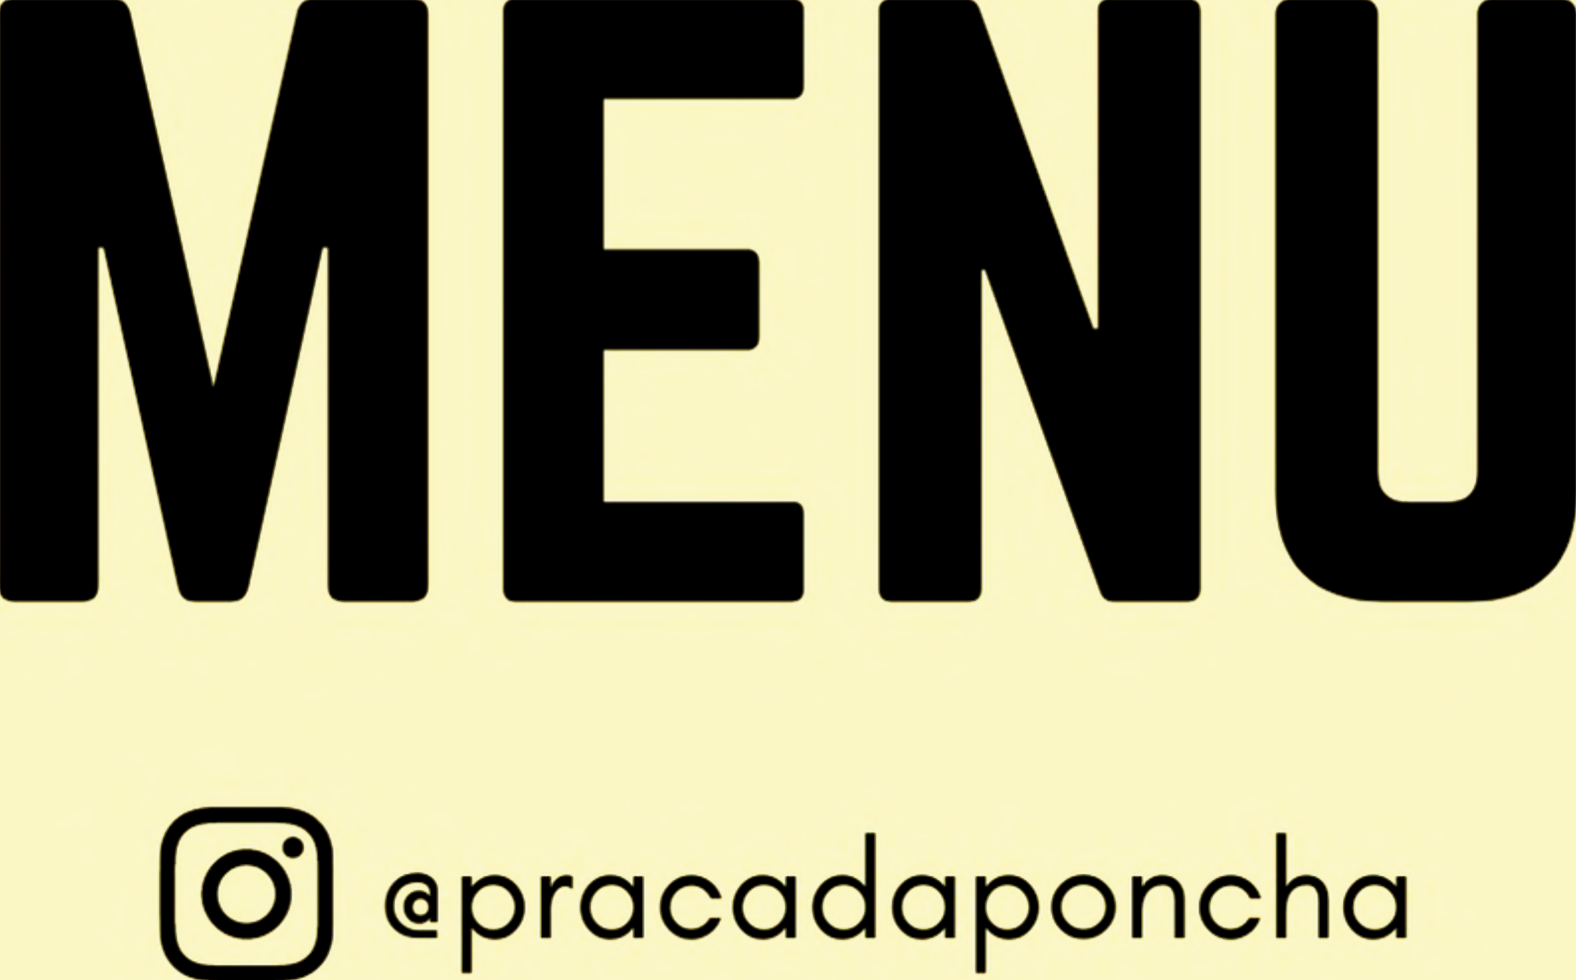
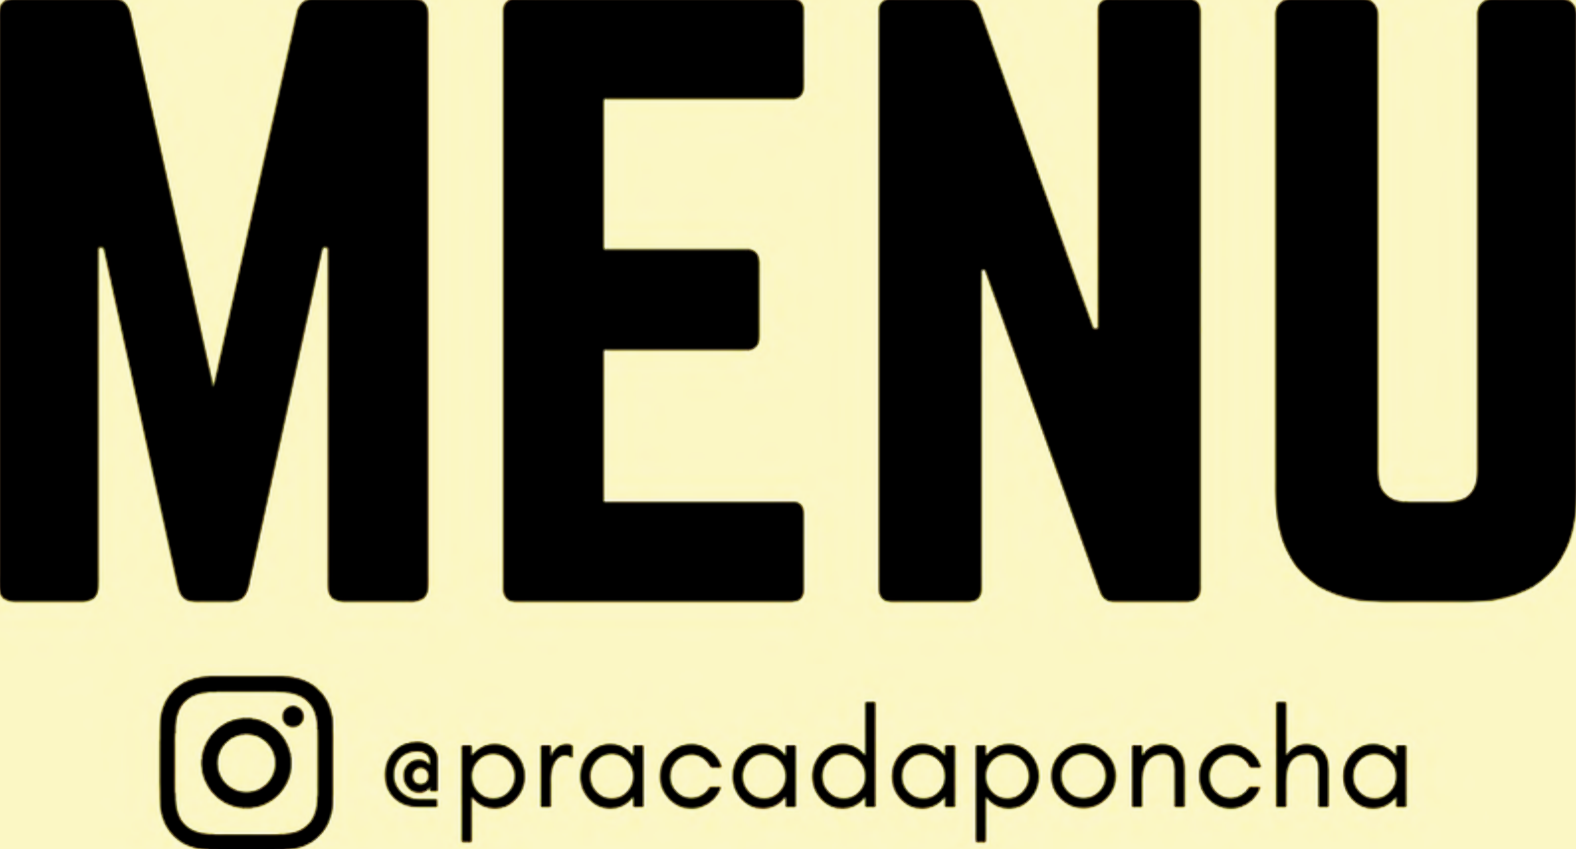
styling for chapter done

diff --git a/src/app/partial/base/menuPartial.html b/src/app/partial/base/menuPartial.html
@@ -1,46 +1,46 @@
-<div>
-    <p>FINGER FOOD</p>
-    <ng-include src="'src/app/partial/chaptersContent/fingerFoodPartial.html'"></ng-include>
-    <p>PREGO</p>
-    <ng-include src="'src/app/partial/chaptersContent/pregoPartial.html'"></ng-include>
-    <p>HAMBURGER</p>
-    <ng-include src="'src/app/partial/chaptersContent/hamburgerPartial.html'"></ng-include>
-    <p>SOBREMESAS</p>
-    <ng-include src="'src/app/partial/chaptersContent/sobremesasPartial.html'"></ng-include>
-    <p>SHISHA</p>
-    <ng-include src="'src/app/partial/chaptersContent/shishaPartial.html'"></ng-include>
-    <p>GIN</p>
-    <ng-include src="'src/app/partial/chaptersContent/ginPartial.html'"></ng-include>
-    <p>WHISKY</p>
-    <ng-include src="'src/app/partial/chaptersContent/whiskyPartial.html'"></ng-include>
-    <p>VODKA</p>
-    <ng-include src="'src/app/partial/chaptersContent/vodkaPartial.html'"></ng-include>
-    <p>RUM</p>
-    <ng-include src="'src/app/partial/chaptersContent/rumPartial.html'"></ng-include>
-    <p>SANGRIA</p>
-    <ng-include src="'src/app/partial/chaptersContent/sangriaPartial.html'"></ng-include>
-    <p>PONCHA</p>
-    <ng-include src="'src/app/partial/chaptersContent/ponchaPartial.html'"></ng-include>
-    <p>CERVEJA</p>
-    <ng-include src="'src/app/partial/chaptersContent/cervejaPartial.html'"></ng-include>
-    <p>VINHO</p>
-    <ng-include src="'src/app/partial/chaptersContent/vinhoPartial.html'"></ng-include>
-    <p>ESPUMANTE</p>
-    <ng-include src="'src/app/partial/chaptersContent/espumantePartial.html'"></ng-include>
-    <p>CHAMPAGNE</p>
-    <ng-include src="'src/app/partial/chaptersContent/champagnePartial.html'"></ng-include>
-    <p>APERITIVOS</p>
-    <ng-include src="'src/app/partial/chaptersContent/aperitivosPartial.html'"></ng-include>
-    <p>LICORES</p>
-    <ng-include src="'src/app/partial/chaptersContent/licoresPartial.html'"></ng-include>
-    <p>COCKTAILS</p>
-    <ng-include src="'src/app/partial/chaptersContent/cocktailsPartial.html'"></ng-include>
-    <p>COCKTAILS S/ ALCOOL</p>
-    <ng-include src="'src/app/partial/chaptersContent/cocktailsSAlcoolPartial.html'"></ng-include>
-    <p>SHOT</p>
-    <ng-include src="'src/app/partial/chaptersContent/shotPartial.html'"></ng-include>
-    <p>CAFETARIA</p>
-    <ng-include src="'src/app/partial/chaptersContent/cafetariaPartial.html'"></ng-include>
-    <p>BEBIDAS S/ ALCOOL</p>
-    <ng-include src="'src/app/partial/chaptersContent/bebidasSAlcoolPartial.html'"></ng-include>
+<div style="margin-bottom: 100px;">
+    <p class="chapterTitleClass">FINGER FOOD</p>
+    <!-- <ng-include src="'src/app/partial/chaptersContent/fingerFoodPartial.html'"></ng-include> -->
+    <p class="chapterTitleClass">PREGO</p>
+    <!-- <ng-include src="'src/app/partial/chaptersContent/pregoPartial.html'"></ng-include> -->
+    <p class="chapterTitleClass">HAMBURGER</p>
+    <!-- <ng-include src="'src/app/partial/chaptersContent/hamburgerPartial.html'"></ng-include> -->
+    <p class="chapterTitleClass">SOBREMESAS</p>
+    <!-- <ng-include src="'src/app/partial/chaptersContent/sobremesasPartial.html'"></ng-include> -->
+    <p class="chapterTitleClass">SHISHA</p>
+    <!-- <ng-include src="'src/app/partial/chaptersContent/shishaPartial.html'"></ng-include> -->
+    <p class="chapterTitleClass">GIN</p>
+    <!-- <ng-include src="'src/app/partial/chaptersContent/ginPartial.html'"></ng-include> -->
+    <p class="chapterTitleClass">WHISKY</p>
+    <!-- <ng-include src="'src/app/partial/chaptersContent/whiskyPartial.html'"></ng-include> -->
+    <p class="chapterTitleClass">VODKA</p>
+    <!-- <ng-include src="'src/app/partial/chaptersContent/vodkaPartial.html'"></ng-include> -->
+    <p class="chapterTitleClass">RUM</p>
+    <!-- <ng-include src="'src/app/partial/chaptersContent/rumPartial.html'"></ng-include> -->
+    <p class="chapterTitleClass">SANGRIA</p>
+    <!-- <ng-include src="'src/app/partial/chaptersContent/sangriaPartial.html'"></ng-include> -->
+    <p class="chapterTitleClass">PONCHA</p>
+    <!-- <ng-include src="'src/app/partial/chaptersContent/ponchaPartial.html'"></ng-include> -->
+    <p class="chapterTitleClass">CERVEJA</p>
+    <!-- <ng-include src="'src/app/partial/chaptersContent/cervejaPartial.html'"></ng-include> -->
+    <p class="chapterTitleClass">VINHO</p>
+    <!-- <ng-include src="'src/app/partial/chaptersContent/vinhoPartial.html'"></ng-include> -->
+    <p class="chapterTitleClass">ESPUMANTE</p>
+    <!-- <ng-include src="'src/app/partial/chaptersContent/espumantePartial.html'"></ng-include> -->
+    <p class="chapterTitleClass">CHAMPAGNE</p>
+    <!-- <ng-include src="'src/app/partial/chaptersContent/champagnePartial.html'"></ng-include> -->
+    <p class="chapterTitleClass">APERITIVOS</p>
+    <!-- <ng-include src="'src/app/partial/chaptersContent/aperitivosPartial.html'"></ng-include> -->
+    <p class="chapterTitleClass">LICORES</p>
+    <!-- <ng-include src="'src/app/partial/chaptersContent/licoresPartial.html'"></ng-include> -->
+    <p class="chapterTitleClass">COCKTAILS</p>
+    <!-- <ng-include src="'src/app/partial/chaptersContent/cocktailsPartial.html'"></ng-include> -->
+    <p class="chapterTitleClass">COCKTAILS S/ ALCOOL</p>
+    <!-- <ng-include src="'src/app/partial/chaptersContent/cocktailsSAlcoolPartial.html'"></ng-include> -->
+    <p class="chapterTitleClass">SHOT</p>
+    <!-- <ng-include src="'src/app/partial/chaptersContent/shotPartial.html'"></ng-include> -->
+    <p class="chapterTitleClass">CAFETARIA</p>
+    <!-- <ng-include src="'src/app/partial/chaptersContent/cafetariaPartial.html'"></ng-include> -->
+    <p class="chapterTitleClass">BEBIDAS S/ ALCOOL</p>
+    <!-- <ng-include src="'src/app/partial/chaptersContent/bebidasSAlcoolPartial.html'"></ng-include> -->
 </div>

diff --git a/index.html b/index.html
@@ -8,6 +8,8 @@
 
     <!-- Styles -->
     <link rel="stylesheet" type="text/css" href="src/app/style/index.css">
+    <link rel="stylesheet" type="text/css" href="src/app/style/mainStyle.css">
+    <link rel="stylesheet" type="text/css" href="src/app/style/chapterStyle.css">
     <link rel="stylesheet" type="text/css" href="src/app/style/variables.css">
 
     <!-- Scripts -->
@@ -16,7 +18,6 @@
 </head>
 
 <body class="mainTheme" ng-controller="menuCtrl">
-    <p></p>
     <ng-include src="'src/app/partial/base/mainPartial.html'"></ng-include>
 </body>
 

diff --git a/src/app/style/chapterStyle.css b/src/app/style/chapterStyle.css
@@ -1,0 +1,12 @@
+@import url("variables.css");
+
+.chapterTitleClass {
+    max-width: 400px;
+    padding: 10px 0 10px;
+    font-size: 30px;
+    font-family: serif;
+    font-weight: bold;
+    color: var(--font-color);
+    background-color: var(--chapter-background-color);
+    border-radius: 3px;
+}

diff --git a/src/app/partial/base/mainPartial.html b/src/app/partial/base/mainPartial.html
@@ -1,5 +1,4 @@
 <div>
-    <img class="classMainTitle" src="src/lib/images/mainTitle.png" width="400">
-    <p></p>
+    <img class="classMainTitle" src="src/lib/images/mainTitle.png">
     <ng-include src="'src/app/partial/base/menuPartial.html'"></ng-include>
 </div>

diff --git a/src/app/style/index.css b/src/app/style/index.css
@@ -13,7 +13,3 @@ body {
     background-color: var(--body-background-color);
     color: var(--font-color);
 }
-
-.classMainTitle {
-    margin: 200px auto 100px;
-}

diff --git a/src/app/style/variables.css b/src/app/style/variables.css
@@ -1,4 +1,5 @@
 .mainTheme {
     --body-background-color: #fbf7c4;
+    --chapter-background-color: #d1b383;
     --font-color: #121212;
 }

diff --git a/src/app/style/mainStyle.css b/src/app/style/mainStyle.css
@@ -1,0 +1,6 @@
+@import url("variables.css");
+
+.classMainTitle {
+    margin: 200px 0 50px;
+    max-width: 400px;
+}
